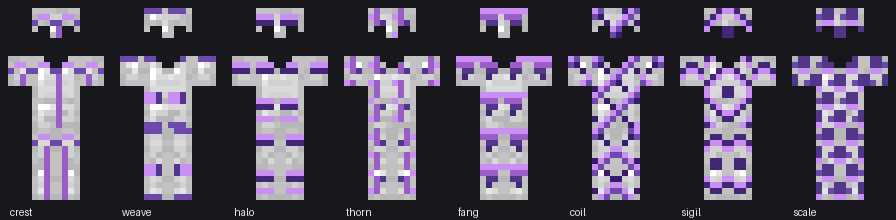
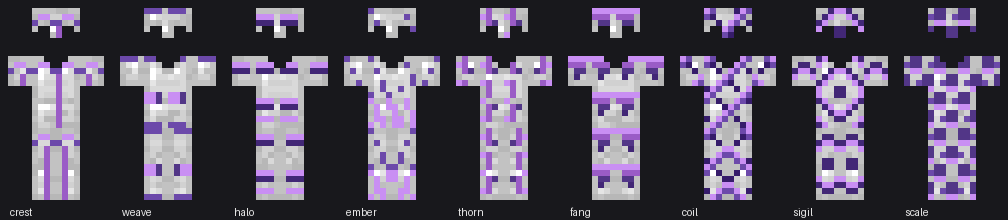
Re-add the ember trim
Brings back ember's flecks, banked at the hem and guttering out towards the
shoulders, as the lightest-but-one pattern at 24% coverage. Fang has taken
over the nether fortress, so ember now generates in ruined portal chests and
duplicates with a magma block.

Verified on a 1.21.11 Fabric server: nine patterns load, recipes total
eighteen over vanilla, ember applies to armour and its template rolls from
the ruined portal table.

Claude-Session: https://claude.ai/code/session_01QCmVyYoj3XspZ6hoimFUp8

diff --git a/tools/generate_items.py b/tools/generate_items.py
@@ -20,6 +20,7 @@ BODY = {
     "weave":   (102, 78, 47),     # woodland mansion, dark oak
     "halo":    (161, 116, 161),   # end city, purpur
     "thorn":   (106, 126, 88),    # jungle temple, moss
+    "ember":   (92, 74, 70),      # ruined portal, blackstone
     "fang":    (124, 72, 69),     # nether fortress, netherrack
     "coil":    (134, 134, 134),   # stronghold, stone brick
     "sigil":   (213, 196, 150),   # desert pyramid, sandstone
@@ -58,6 +59,14 @@ GLYPHS = {
         "######",
         "..##..",
         "+####+",
+        "..##..",
+    ],
+    "ember": [
+        ".#..#.",
+        "#..#.+",
+        "+.#..#",
+        ".#..#.",
+        "#..#.+",
         "..##..",
     ],
     "fang": [

diff --git a/tools/generate_textures.py b/tools/generate_textures.py
@@ -155,6 +155,22 @@ def fang(u, v, fw, fh):
     return None
 
 
+def ember(u, v, fw, fh):
+    """Flecks banked at the hem, guttering out towards the shoulders."""
+    h = (u * 7 + v * 13) % 11
+    if v >= HEM:
+        threshold = 7
+    elif v >= WAIST:
+        threshold = 5
+    elif v >= 4:
+        threshold = 3
+    else:
+        threshold = 1
+    if h < threshold:
+        return T4 if v >= WAIST else T2
+    return None
+
+
 def coil(u, v, fw, fh):
     """Bands winding diagonally around the piece."""
     k = (u + v) % 6
@@ -196,6 +212,7 @@ PATTERNS = {
     "weave": weave,
     "halo": halo,
     "thorn": thorn,
+    "ember": ember,
     "fang": fang,
     "coil": coil,
     "sigil": sigil,

diff --git a/src/main/java/com/larsb6/extratrims/ExtraTrimsLoot.java b/src/main/java/com/larsb6/extratrims/ExtraTrimsLoot.java
@@ -29,6 +29,7 @@ public final class ExtraTrimsLoot {
 		PLACEMENTS.put("weave", new Placement(LootTables.WOODLAND_MANSION_CHEST, 0.25F));
 		PLACEMENTS.put("halo", new Placement(LootTables.END_CITY_TREASURE_CHEST, 0.20F));
 		PLACEMENTS.put("thorn", new Placement(LootTables.JUNGLE_TEMPLE_CHEST, 0.25F));
+		PLACEMENTS.put("ember", new Placement(LootTables.RUINED_PORTAL_CHEST, 0.25F));
 		PLACEMENTS.put("fang", new Placement(LootTables.NETHER_BRIDGE_CHEST, 0.20F));
 		PLACEMENTS.put("coil", new Placement(LootTables.STRONGHOLD_LIBRARY_CHEST, 0.20F));
 		PLACEMENTS.put("sigil", new Placement(LootTables.DESERT_PYRAMID_CHEST, 0.20F));

diff --git a/src/main/java/com/larsb6/extratrims/ExtraTrimsItems.java b/src/main/java/com/larsb6/extratrims/ExtraTrimsItems.java
@@ -26,7 +26,7 @@ import net.minecraft.util.Rarity;
 public final class ExtraTrimsItems {
 	/** Pattern ids, matching the trim_pattern files and texture names. */
 	public static final String[] PATTERNS = {
-			"crest", "weave", "halo", "thorn", "fang", "coil", "sigil", "scale"
+			"crest", "weave", "halo", "thorn", "ember", "fang", "coil", "sigil", "scale"
 	};
 
 	private static final Map<String, Item> TEMPLATES = new LinkedHashMap<>();

diff --git a/tools/preview.py b/tools/preview.py
@@ -12,7 +12,7 @@ import os
 
 from PIL import Image, ImageDraw
 
-PATTERNS = ["crest", "weave", "halo", "thorn", "fang", "coil", "sigil", "scale"]
+PATTERNS = ["crest", "weave", "halo", "ember", "thorn", "fang", "coil", "sigil", "scale"]
 
 # Front faces: (src_x, src_y, w, h) -> (dst_x, dst_y) in a 16x32 front view.
 # "mirror" duplicates the right limb as the left one, as the model does.

diff --git a/tools/generate_data.py b/tools/generate_data.py
@@ -17,6 +17,7 @@ PATTERNS = {
     "weave": ("Weave", "minecraft:dark_oak_planks"),
     "halo":  ("Halo",  "minecraft:purpur_block"),
     "thorn": ("Thorn", "minecraft:mossy_cobblestone"),
+    "ember": ("Ember", "minecraft:magma_block"),
     "fang":  ("Fang",  "minecraft:netherrack"),
     "coil":  ("Coil",  "minecraft:stone_bricks"),
     "sigil": ("Sigil", "minecraft:sandstone"),

diff --git a/README.md b/README.md
@@ -1,11 +1,11 @@
 # Extra Trims
 
-A Fabric mod for **Minecraft 1.21.11** that adds eight new armor trim patterns,
+A Fabric mod for **Minecraft 1.21.11** that adds nine new armor trim patterns,
 each with its own smithing template that generates in a structure suited to it.
 
-![The eight patterns in gold trim](docs/preview-gold.png)
+![The nine patterns in gold trim](docs/preview-gold.png)
 
-*The eight patterns, shown in gold on iron armour. All sixteen vanilla trim
+*The nine patterns, shown in gold on iron armour. All sixteen vanilla trim
 materials work; `docs/preview-amethyst.png` shows the same set in amethyst.*
 
 ## The patterns
@@ -13,6 +13,7 @@ materials work; `docs/preview-amethyst.png` shows the same set in amethyst.*
 | Pattern | Look | Found in | Duplicate with | Coverage |
 |---|---|---|---|---|
 | Weave | Braid at the waist, closed by cuffs | Woodland mansion chests | Dark oak planks | 24% |
+| Ember | Flecks banked at the hem, guttering out upwards | Ruined portal chests | Magma block | 24% |
 | Crest | Spine down the piece, chevrons at the collar | Pillager outpost chests | Cobblestone | 25% |
 | Halo | Three thin rings with soft shadows | End city treasure chests | Purpur block | 33% |
 | Thorn | Barbed ribs running vertically | Jungle temple chests | Mossy cobblestone | 33% |
